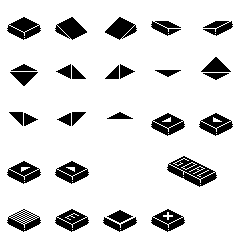
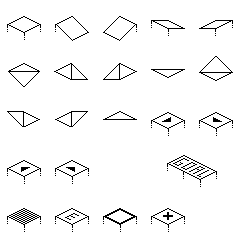
new inverted graphics, box item updated behaviour

diff --git a/Orb/Editor/level_editor_height_adjust.html b/Orb/Editor/level_editor_height_adjust.html
@@ -51,6 +51,10 @@
 		let canvas = document.getElementById('editor_canvas');
 		let context = canvas.getContext('2d');
 
+		let drawing_area = new Path2D();
+		drawing_area.rect(X_OFFSET, Y_OFFSET, X_OFFSET + LEVEL_IMAGE_WIDTH + X_OFFSET + SOURCE_IMAGE_WIDTH, Y_OFFSET + LEVEL_IMAGE_HEIGHT);
+		context.clip(drawing_area);
+
 		// debug string
 		let debug_label = document.getElementById('debug_out');
 		debug_label.innerHTML = "debug string";
@@ -121,11 +125,12 @@
 				let gx = x - X_OFFSET - LEVEL_IMAGE_WIDTH/2;
 				let gy = y - Y_OFFSET;
 				// pixel conversion from screen space to top down grid
-				let isoxy = iso_to_grid(gx,gy);
+				let iso_xy = iso_to_grid(gx,gy);
 				// divide and round pixel iso coordinates
-				let ix = Math.floor(isoxy[0]/(GRID_SIZE*2));
-				let iy = Math.floor(isoxy[1]/(GRID_SIZE*2));
-				debug_label.innerHTML = ix.toString() + " : " + iy.toString();
+				let ix = Math.floor(iso_xy[0] / (GRID_SIZE * 2));
+				let iy = Math.floor(iso_xy[1] / (GRID_SIZE * 2));
+
+				ui_print_coordinates(ix, iy);
 
 				// do boundary check
 				if( is_inside_target_area(ix, iy) ) {
@@ -152,6 +157,13 @@
 			}
 			
 
+		}
+
+		function ui_print_coordinates(ix, iy) {
+			debug_label.innerHTML = 
+				"x:" + ix.toString() + "<br>" +
+				"y:" + iy.toString() + "<br>" +
+				"z:" + current_edit_level.toString();
 		}
 
 		function on_mouse_click(e) {
